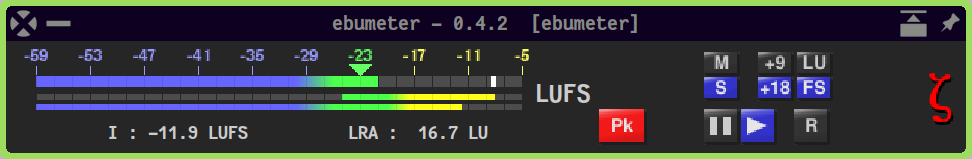
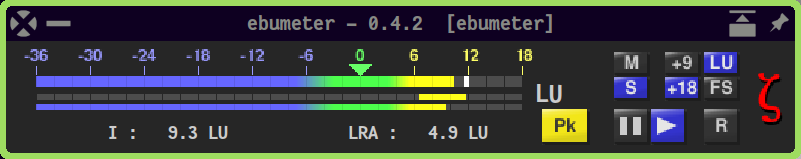
feat(mainwin, ebu-r128-disp): optimize margins/paddings

diff --git a/source/ebu_r128_disp.cc b/source/ebu_r128_disp.cc
@@ -151,19 +151,19 @@ Ebu_r128_disp::Ebu_r128_disp (X_window *parent, X_callback *callb, int xp, int y
     _t_range = scaled_X_texttip (this, 0, &tstyle1, X1 - 120, Y5, 120, 18, 31);
     _t_range->x_map ();
 
-    x = X1 + 50;
+    x = X1 + 12;
     y = Y5 - 7;
     _bpeak1 = new Pbutt1 (this, this, BPEAK1, _ibpeak1, x, y, 32, 24, scale);
     _bpeak1->x_map();
 
-    x = X1 + 120;
+    x = X1 + 60;
     y = Y0 + 4;
     _bmodeM = new Pbutt1 (this, this, BMODEM, _ibmodeM, x, y, 24, 16, scale);
     _bmodeM->x_map();
     _bmodeM->set_state (2);
     _bmodeS = new Pbutt1 (this, this, BMODES, _ibmodeS, x, y + 17, 24, 16, scale); 
     _bmodeS->x_map();
-    x += 36;
+    x += 34;
     _bscale09 = new Pbutt1 (this, this, BSCALE09, _ibscale09, x, y, 24, 16, scale);
     _bscale09->x_map();
     _bscale18 = new Pbutt1 (this, this, BSCALE18, _ibscale18, x, y + 17, 24, 16, scale); 
@@ -174,7 +174,7 @@ Ebu_r128_disp::Ebu_r128_disp (X_window *parent, X_callback *callb, int xp, int y
     _bscaleFS = new Pbutt1 (this, this, BSCALEFS, _ibscaleFS, x, y + 17, 24, 16, scale); 
     _bscaleFS->x_map();
 
-    x = X1 + 120;
+    x = X1 + 60;
     y = Y5 - 7;
     _bpause = new Pbutt1 (this, this, BPAUSE, _ibpause, x, y, 24, 24, scale);
     _bpause->x_map();

diff --git a/source/ebu_r128_disp.h b/source/ebu_r128_disp.h
@@ -57,21 +57,21 @@ private:
     enum
     {
         IDIV = 12,
-	IMAR = 20,
-	X0   = IMAR,
-	X1   = X0 + 27 * IDIV + 1,
-	IMGS = X1 + IMAR,
-	RMAR = 220,
-        XS   = X1 + RMAR,
-	Y0   = 3,
-	Y1   = 15,
-	Y2   = 23,
-	H2   = 8,
-	Y3   = 35,
-	H3   = 4,
-	Y4   = 42,
-	H4   = 4,
-	Y5   = 52,
+		IMAR = 20,
+		X0   = IMAR,
+		X1   = X0 + 27 * IDIV + 1,
+		IMGS = X1 + IMAR,
+		RMAR = 150,
+		XS   = X1 + RMAR,
+		Y0   = 3,
+		Y1   = 15,
+		Y2   = 23,
+		H2   = 8,
+		Y3   = 35,
+		H3   = 4,
+		Y4   = 42,
+		H4   = 4,
+		Y5   = 52,
         YS   = 75
     };
 

diff --git a/source/mainwin.h b/source/mainwin.h
@@ -33,7 +33,8 @@ class Mainwin : public A_thread, public X_window, public X_callback
 {
 public:
 
-    enum { XSIZE = 640, YSIZE = 75 };
+    //enum { XSIZE = 500, YSIZE = 75 };  // no logo
+    enum { XSIZE = 526, YSIZE = 75 };
 
     Mainwin (X_rootwin *parent, X_resman *xres, int xp, int yp, Jclient *jclient, float win_scale);
     ~Mainwin (void);

diff --git a/source/mainwin.cc b/source/mainwin.cc
@@ -157,7 +157,7 @@ void Mainwin::redraw (void)
 		dpy (), win (), dgc (), redzita,
 		0, 0,
 		(int)roundf((XSIZE - 35) * scale), 0,
-		(int)round(35*scale), (int)roundf(75*scale)
+		(int)roundf(35*scale), (int)roundf(75*scale)
 	);
 }
 
